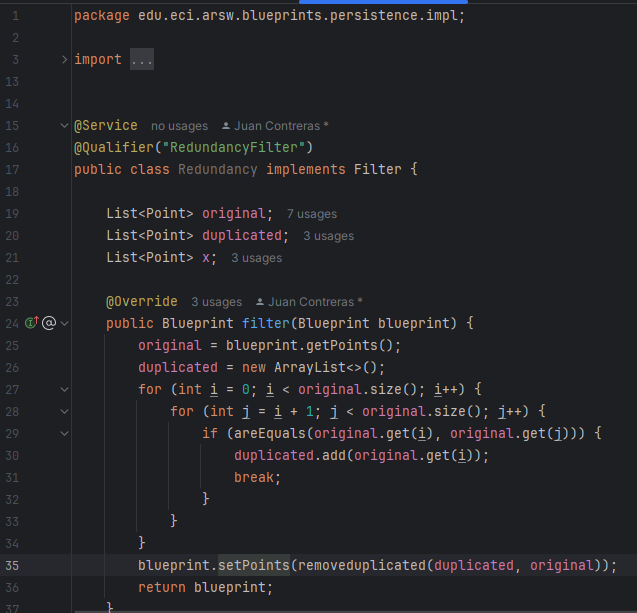
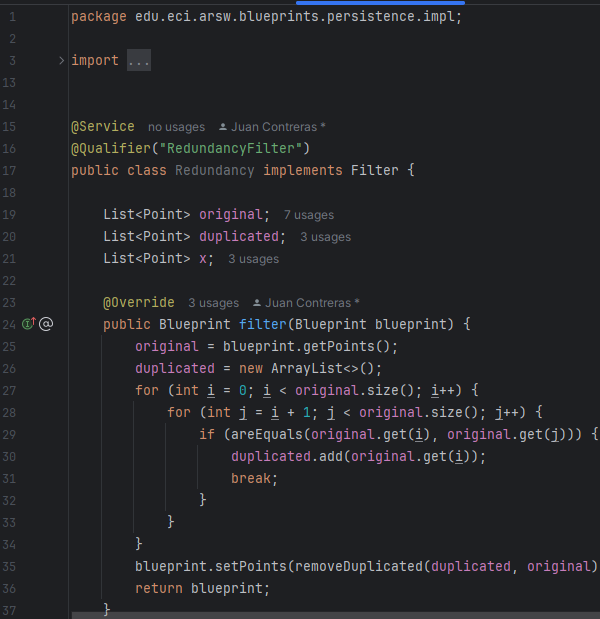
Parte 4

diff --git a/src/main/java/edu/eci/arsw/blueprints/persistence/impl/Redundancy.java b/src/main/java/edu/eci/arsw/blueprints/persistence/impl/Redundancy.java
@@ -32,7 +32,7 @@ public class Redundancy implements Filter {
                 }
             }
         }
-        blueprint.setPoints(removeduplicated(duplicated, original));
+        blueprint.setPoints(removeDuplicated(duplicated, original));
         return blueprint;
     }
 
@@ -48,7 +48,7 @@ public class Redundancy implements Filter {
         return (p1.getX() == p2.getX() && p1.getY() == p2.getY());
     }
 
-    public List<Point> removeduplicated(List<Point> duplicatedPoints, List<Point> ptsAll) {
+    public List<Point> removeDuplicated(List<Point> duplicatedPoints, List<Point> ptsAll) {
         x = new ArrayList<>(ptsAll);
         for (Point i: duplicatedPoints) {
             x.remove(i);
